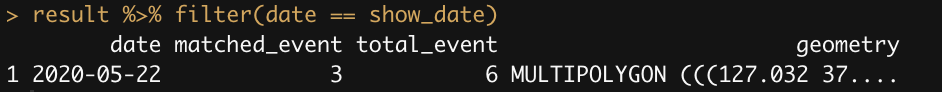
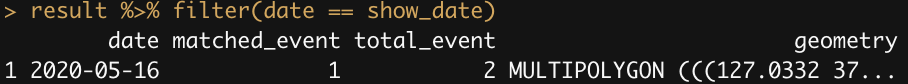
modif quiz

diff --git a/202007/1.event_areas/event_areas_quiz.md b/202007/1.event_areas/event_areas_quiz.md
@@ -1,7 +1,7 @@
-Q) 이벤트 구역 내에서 발생한 이벤트 수를 집계해주는 함수 daily_matched_events 를 구현해주세요!  
+Q) 이벤트 구역 내에서 발생한 이벤트 수를 집계해주는 함수 daily_matched_points 를 구현해주세요!  
 - 입력값으로 다음 4가지 내역을 받습니다 : 이벤트 구역, 이벤트 발생이력, 집계시작일, 집계종료일  
-- 이벤트 구역은 시간에 따라 변화하였으며 그 이력은 event_areas 에 기록되었습니다  
-- 이벤트 발생이력은 events 에 기록되었습니다  
+- 이벤트 구역은 시간에 따라 변화하였으며 그 이력은 areas 에 기록되었습니다  
+- 이벤트 발생이력은 points 에 기록되었습니다  
 - 집계시작일, 집계종료일은 '%Y-%m-%d' format의 character 로 받습니다  
 
 ```{r, message=FALSE, warning=FALSE}
@@ -15,53 +15,70 @@ rm(list=ls())
 # install.packages('geodrawr')
 
 base_crs <- '+proj=longlat +datum=WGS84'
+base_datetime_format <- '%Y-%m-%d %H:%M:%S'
+
+date_to_time <- function(date, time) {
+  paste(date, time) %>%
+    strptime(format=base_datetime_format, tz='UTC') %>%
+    as.POSIXct
+}
+
+init_at <- date_to_time('2020-05-15', '00:00:00')
 
 event_area_01 <- readRDS('event_area_01.rds') %>% st_multipolygon %>% st_sfc
 event_area_02 <- readRDS('event_area_02.rds') %>% st_multipolygon %>% st_sfc
 event_area_03 <- readRDS('event_area_03.rds') %>% st_multipolygon %>% st_sfc
 
-event_areas <- 
+areas <- 
   data.frame(
-    apply_at = as.Date('2020-04-01') + c(0, 45, 70),
-    geometry = c(event_area_01, event_area_02, event_area_03)
-  ) %>%
+    apply_at = init_at + c(0 + 1*60*60, 0 + 10*60*60, 0 + 19*60*60),
+    geometry = c(event_area_01, event_area_02, event_area_03))
+
+areas[1,1] <- NA
+areas <-
+  areas %>%
+  transmute(
+    apply_at, 
+    end_at = lead(apply_at, 1) - 1,
+    apply_at = coalesce(apply_at, date_to_time('0001-01-01','00:00:00')),
+    end_at = coalesce(end_at, date_to_time('9999-12-31','23:59:59')),
+    geometry) %>%
   st_sf(crs=base_crs)
 
-event_areas[1,1] <- NA
-event_areas
+areas
 ```
 ![](event_areas_result_01.PNG)  
 
 ```{r, message=FALSE, warning=FALSE}
 set.seed(20200712)
 
-events <- 
+points <- 
   readRDS('events.rds') %>% 
   st_sf(crs=base_crs) %>% 
-  transmute(occur_at = as.Date('2020-04-01') + sample(x=0:70, size=n(), rep=TRUE)) %>%
+  transmute(occur_at = init_at + 24*60*sample(x=0:60, size=n(), rep=TRUE)) %>%
   arrange(occur_at)
-
-events
+  
+points
 ```
 ![](event_areas_result_02.PNG)  
 
 ```
-daily_matched_events <- function(event_areas, events, from_date, to_date){
+daily_matched_points <- function(areas, points, from_date, to_date){
 
 }
 
-result <- daily_matched_events(event_areas, events, '2020-05-01', '2020-06-30')
+result <- daily_matched_points(areas, points, '2020-05-13', '2020-05-17')
 
-show_date = '2020-05-22'
+show_date = '2020-05-16'
 
 leaflet() %>%
   addTiles %>%
   addPolygons(data=result %>% filter(date == show_date) %>% st_sf(crs=base_crs)) %>%
-  addCircles(data=events %>% filter(occur_at == as.Date(show_date)), color='red')
+  addCircles(data=points %>% filter(as.Date(occur_at) == as.Date(show_date)), color='red')
 ```
 ![](event_areas_result_03.PNG)  
 
-```{r}
+```
 result %>% filter(date == show_date)
 ```
 ![](event_areas_result_04.PNG)  
